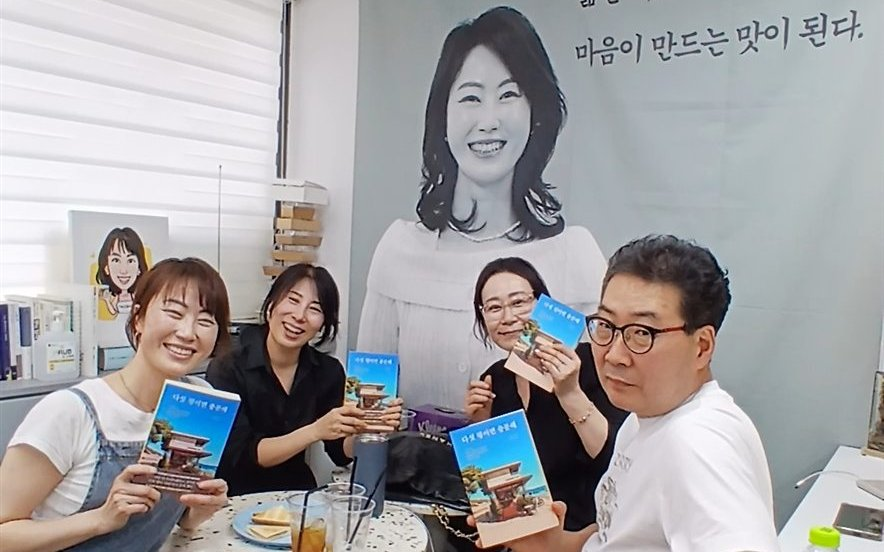
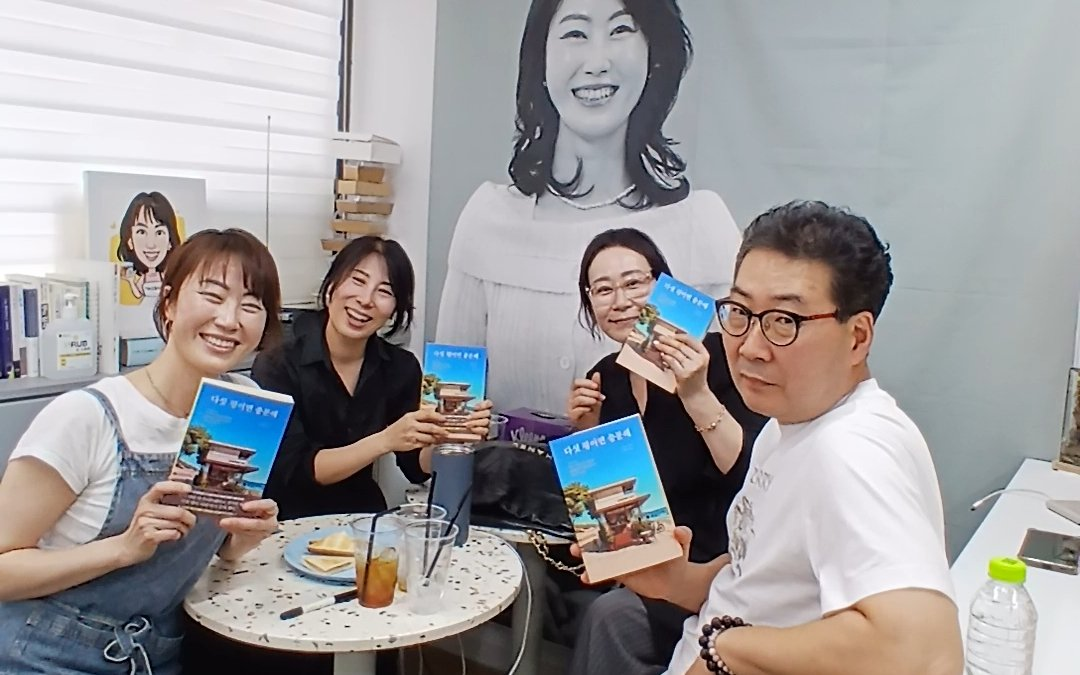
Raise reader meeting photo framing

diff --git a/app/page.tsx b/app/page.tsx
@@ -33,8 +33,8 @@ const moments = [
   { src: '/events/lecture-audience.jpg', category: '북토크', title: '책을 중심으로 모인 시간', alt: '북토크 현장을 가득 채운 독자들과 강연 무대' },
   { src: '/events/lecture-story.jpg', category: '강연', title: '삶과 책을 잇는 이야기', alt: '박지성 작가가 자신의 삶과 책 이야기를 강연하는 모습', position: 'center 72%' },
   { src: '/events/small-booktalk.jpg', category: '독자 모임', title: '작은 자리에서 깊게 나눈 이야기', alt: '작은 북토크에서 박지성 작가와 독자들이 책을 들고 웃는 모습', position: 'center 60%' },
-  { src: '/events/reader-meeting.jpg?v=20261109b', category: '독자 만남', title: '책으로 이어진 인연', alt: '박지성 작가와 독자들이 책을 들고 함께한 모습', position: 'center' },
-  { src: '/events/reader-meeting-two.jpg?v=20261109b', category: '독자 만남', title: '책으로 이어진 또 하나의 인연', alt: '박지성 작가와 독자들이 다섯 평이면 충분해를 들고 함께한 모습', position: 'center' },
+  { src: '/events/reader-meeting.jpg?v=20261109c', category: '독자 만남', title: '책으로 이어진 인연', alt: '박지성 작가와 독자들이 책을 들고 함께한 모습', position: 'center' },
+  { src: '/events/reader-meeting-two.jpg?v=20261109c', category: '독자 만남', title: '책으로 이어진 또 하나의 인연', alt: '박지성 작가와 독자들이 다섯 평이면 충분해를 들고 함께한 모습', position: 'center' },
 ];
 
 export function WriterLanding({ instagramVariant = false }: { instagramVariant?: boolean }) {
